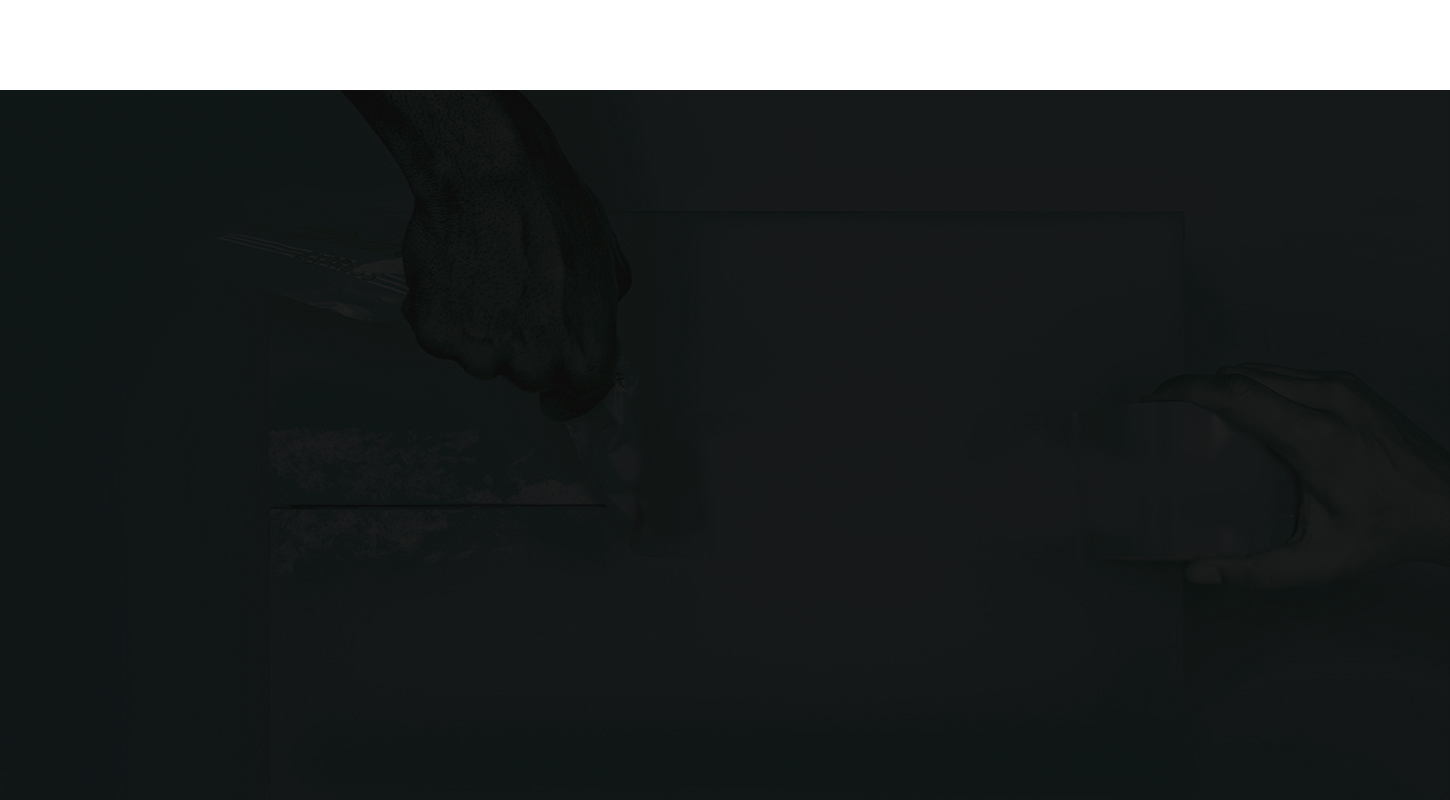
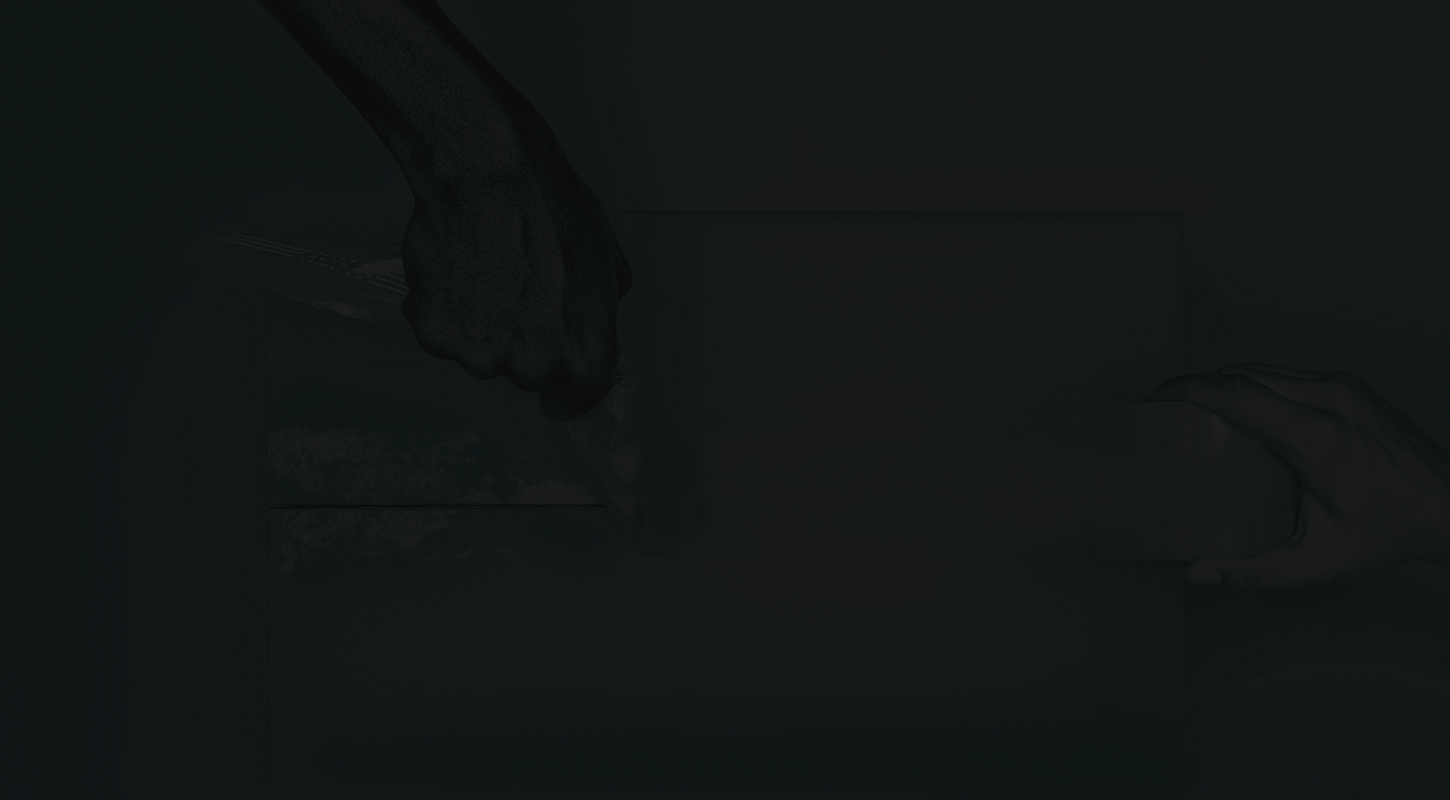
BIU

Changed region(s): [[0.0, 0.0, 1.0, 0.125]]

diff --git a/css/styles.css b/css/styles.css
@@ -424,7 +424,7 @@ hr {
 }
 
 #services {
-	background: url('../images/jumbotron3.jpg') no-repeat fixed ;
+	background: url('../images/jumbotron7.jpg') no-repeat fixed;
 	margin-bottom: 0px;
 	padding-top: 100px;
 }
